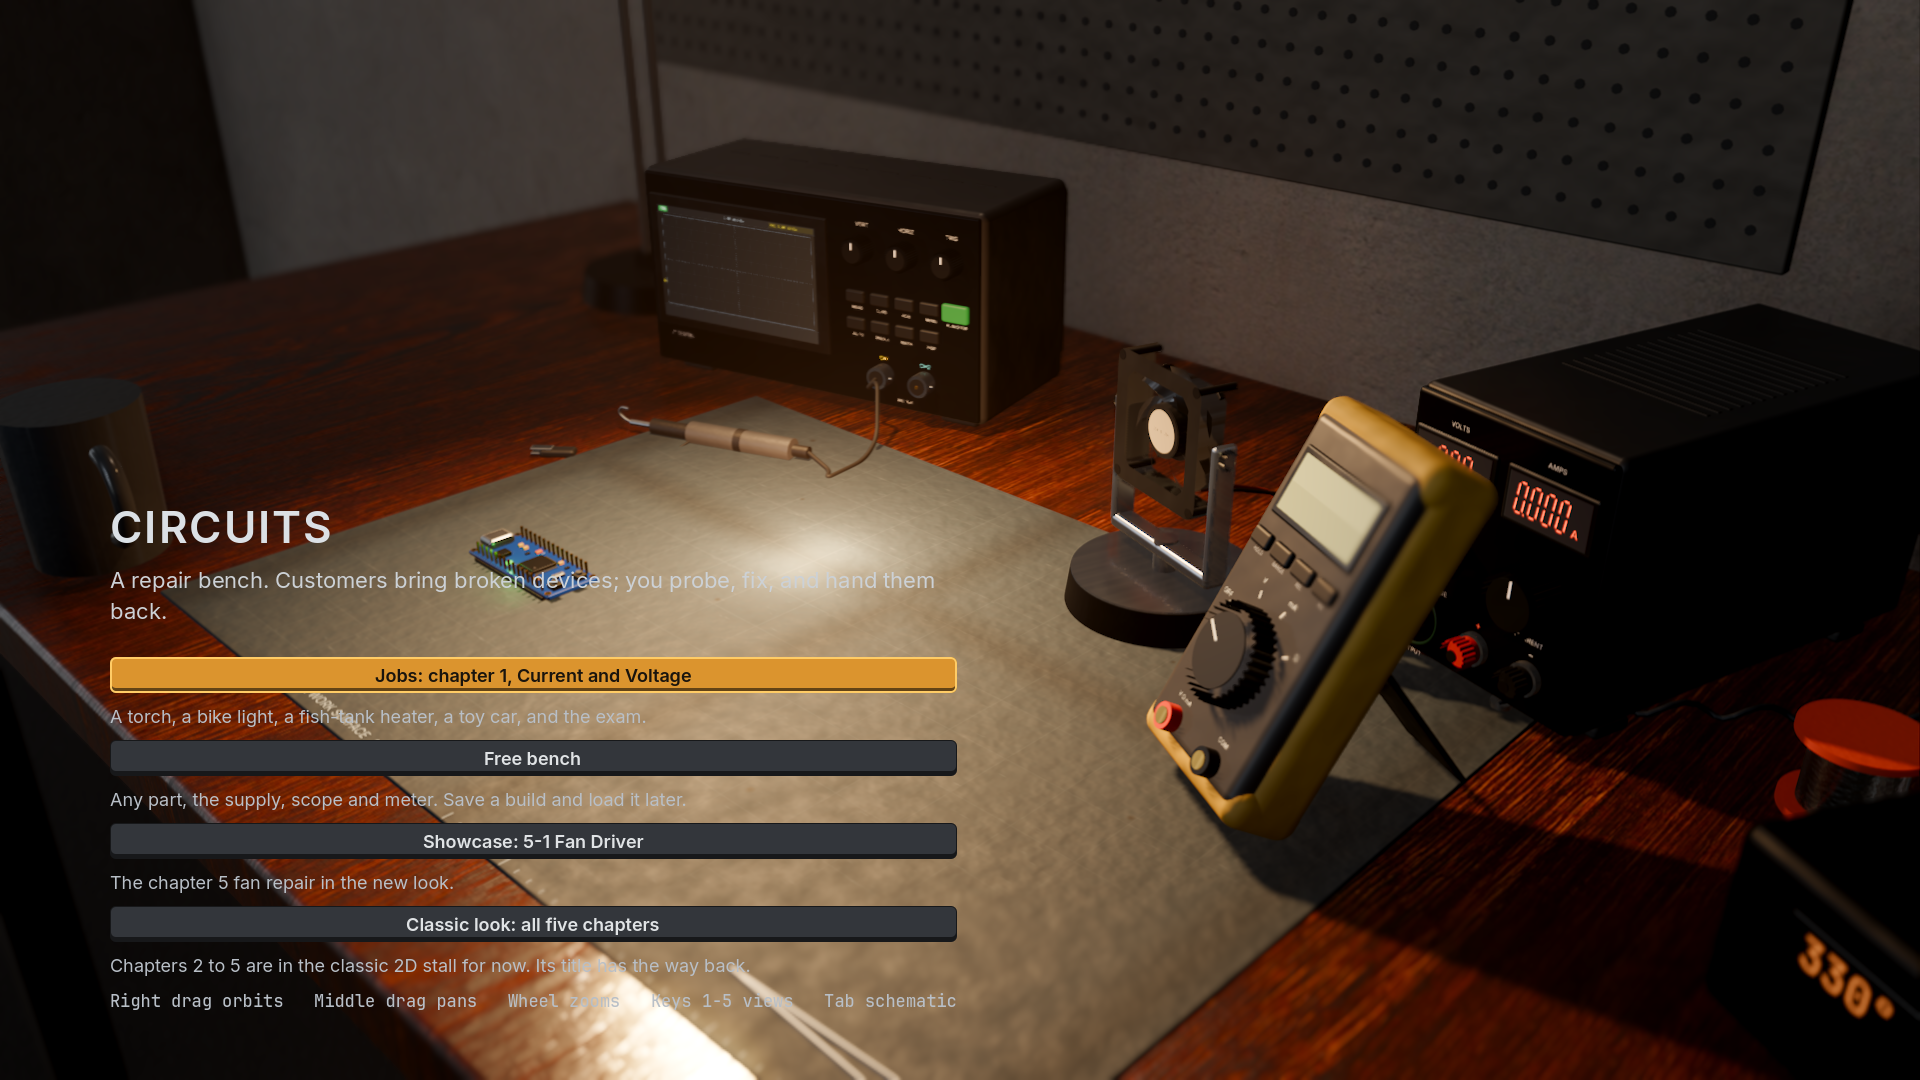
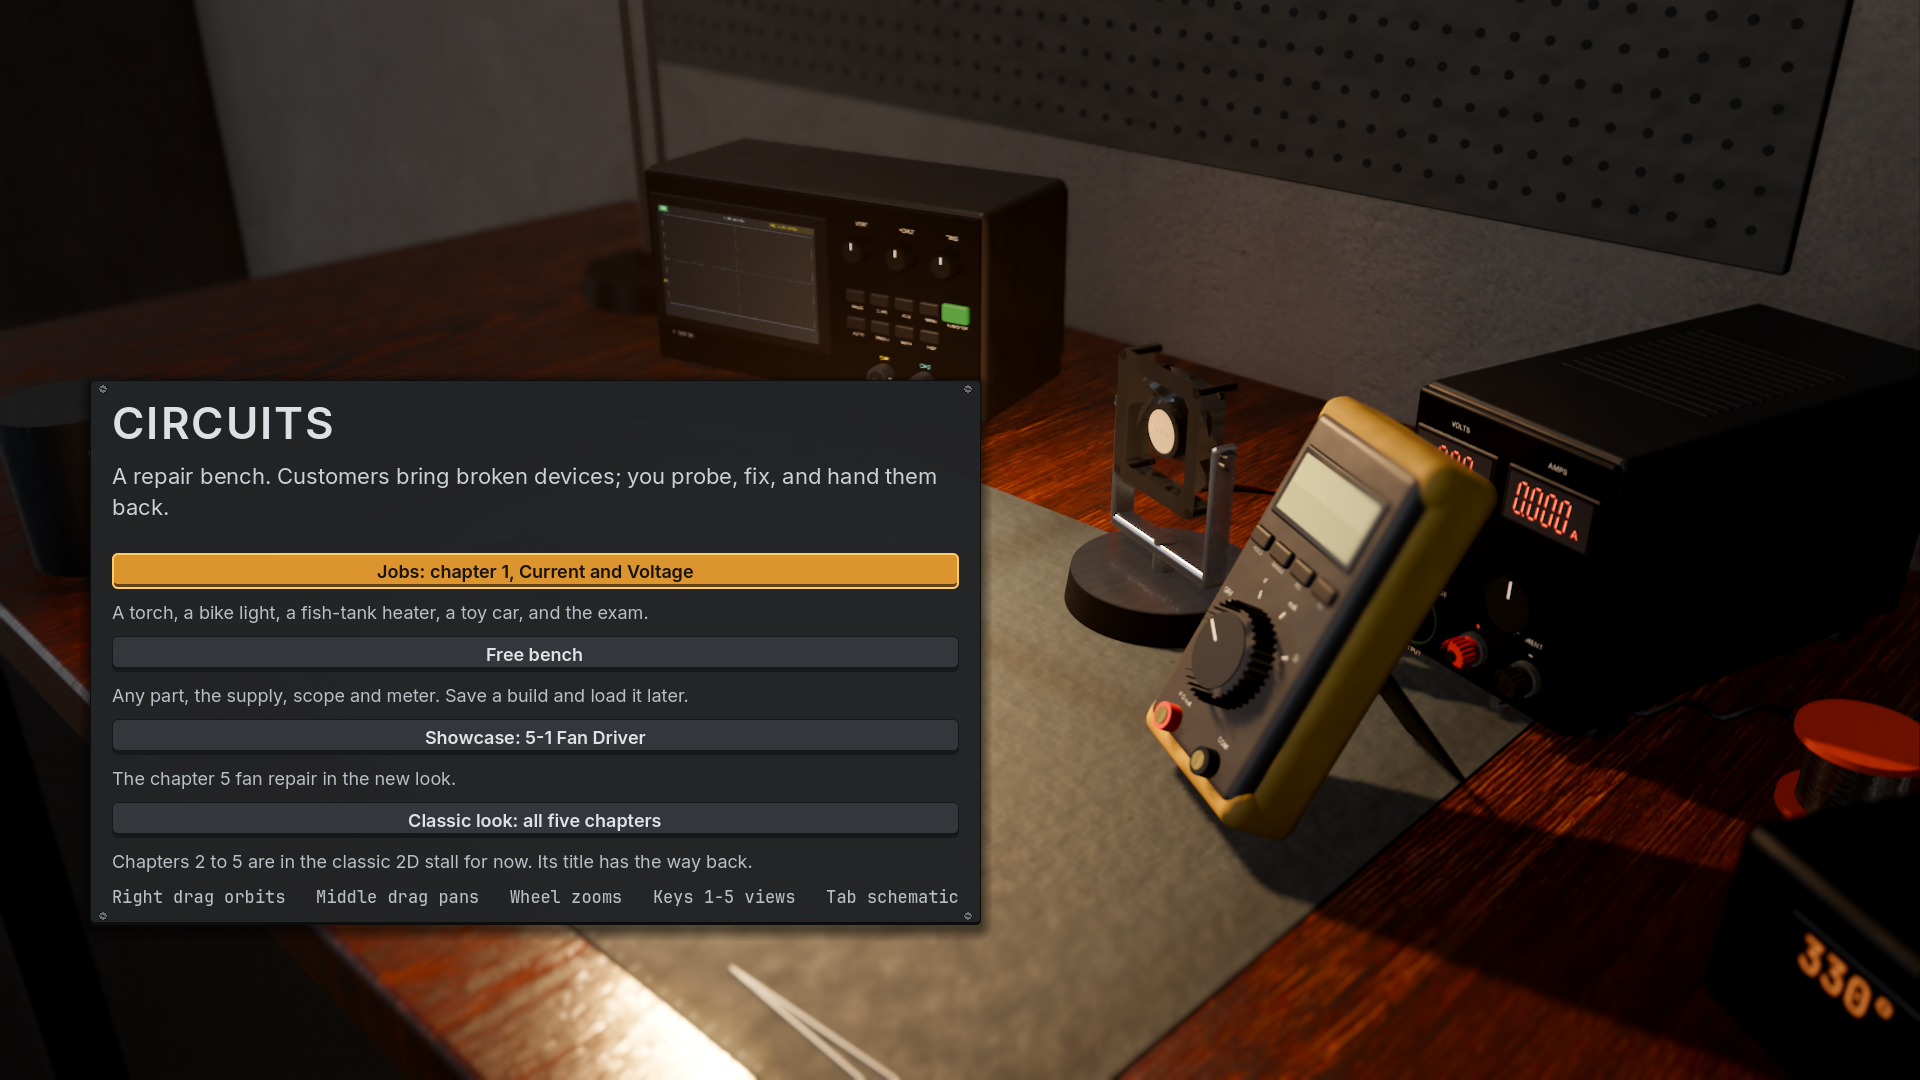
0.3.0 prep: version, CHANGELOG entry, version on the new-look title, round 3 shots retaken
Claude-Session: https://claude.ai/code/session_01LLtMdbo6QrqLGE18L1gpTt

Changed region(s): [[0.0312, 0.3361, 0.5312, 0.9472], [0.4375, 0.9167, 0.5, 0.9472]]

diff --git a/CHANGELOG.md b/CHANGELOG.md
@@ -2,6 +2,32 @@
 
 All notable changes to CIRCUITS (called NODE until v0.1.0). The release workflow publishes the section whose heading contains `[x.y.z]`.
 
+## [0.3.0] - 2026-11-23 · "Workbench"
+A new look: a 3D repair bench. Chapter 1 and the 5-1 fan repair play in it; chapters 2 to 5 stay in the classic 2D stall behind a labelled switch on both title screens. Saves from 0.2.0 load unchanged.
+
+### Added
+- The workbench: a lamp-lit desk with an oscilloscope, bench supply, multimeter and parts drawers, real 3D parts (resistors with colour bands, LEDs that light, a PP3 battery, an aquarium heater, transistors, diodes), wires with stripped ends, a scope trace that runs live, smoke and scorch when a part burns. Camera views on keys 1 to 5; right drag orbits, wheel zooms.
+- Repair tickets: 1-1 torch, 1-2 bike light, 1-3 heater, 1-4 toy car and 5-1 fan arrive as the customer's faulty device in a case. Open it, probe the old work, fix it, close it and hand it back. The customer's words and thanks are on the paper ticket.
+- Burnt parts cost money: a part you burn is billed at its price and comes out of the job's pay (the ticket shows the bill). Parts that arrived burnt are free.
+- Free bench: any part from the catalogue on an open board, the supply, scope and meter; save and load builds in three slots.
+- Instrument-style controls: a paper repair ticket, a bench control plate with LCD readouts, a parts tray of labelled 3D renders, and a tool rail of keycaps.
+- Quality tiers: high (RTX class: shadows, SSR, SSIL, fog, TAA and 4x MSAA), medium, low (integrated GPUs: Compatibility renderer, 75 % 3D scale, FXAA). Measured: RTX 4090 high 6.4 ms at 1920x1080; Ryzen 9900X iGPU low 15.0 ms avg, 18.9 ms p95 at 1280x800.
+- Tests: `src/engine/repair.test.ts`, `src/engine/bench-memo.test.ts`, `src/look2-textures.test.ts`, `godot/tests/look2_ch1_flow.gd` (chapter 1 end to end in the new look, 64 checks).
+
+### Changed
+- Level search is about 17x faster on 5-1 and 2x on 4-4: the bench result is memoised exactly, and a board missing a part the specs measure fails without simulating. The whole test suite runs in about 7 minutes on 4 workers (was about 30).
+- A bench on an incomplete board names only the missing parts (no rating lines, no smoke). The two 0-0 idle trajectory goldens were regenerated for this, in their own commit.
+- Every 3D texture is mipmapped and VRAM-compressed; the screen-space roughness limiter is on.
+
+### Fixed
+- The meter read "-305 V" for -305 mV (the prefix was dropped) in both looks.
+
+### Known gaps
+- Chapters 2 to 5 are not yet in the new look (classic only; 5-1 is the one showcase).
+- No sound in the new look. No gamepad in the new look.
+- The meter shows the instant value on a switching node (a real meter averages).
+- One hand play by an agent persona; no human has played the new look.
+
 ## [0.2.0] - 2026-11-22 · "Switches & Gain"
 Chapter 5 (five tickets) and the fixes from the 0.1 play-test and screenshot review. Saves from 0.1.0 load unchanged (chapter 5 is simply unlocked by chapter 4).
 
